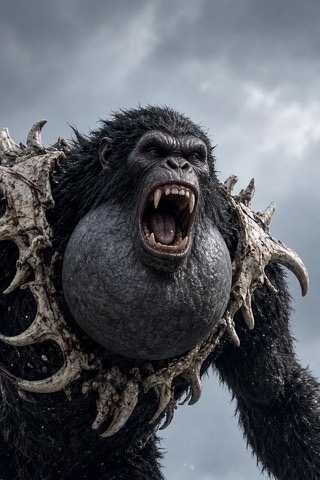
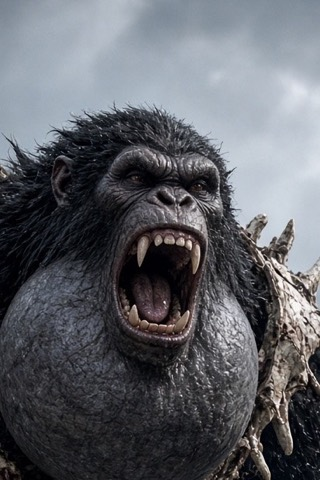
Ice Age thumbs re-framed on each face (Paul approved; sources and heroes untouched); tournament polish: compact layout for short/sideways screens, side-by-side celebration, 'waiting for friends', plurals; sw v66

diff --git a/web/index.html b/web/index.html
@@ -1184,7 +1184,7 @@
 .t-clock b{font:900 1.5rem/1 system-ui,sans-serif;color:#fff;font-variant-numeric:tabular-nums}.t-clock small{font:800 .58rem system-ui,sans-serif;letter-spacing:.14em;color:#ffcf3acc;margin-top:4px}
 .t-list{list-style:none;margin:6px 0 10px;padding:0;display:grid;gap:6px;text-align:left}
 .t-row{display:grid;grid-template-columns:30px 40px 1fr auto;align-items:center;gap:10px;padding:7px 10px;border-radius:12px;background:#ffffff0d;border:1px solid #ffffff14}
-.t-row.me{background:#ffcf3a1f;border-color:#ffcf3a77}.t-row .t-place{font:900 1rem system-ui,sans-serif;text-align:center;color:#fff}
+.t-row.me{background:#ffcf3a1f;border-color:#ffcf3a77}.t-row .t-place{font:900 1.3rem/1 system-ui,sans-serif;text-align:center;color:#fff}
 .t-row img{width:40px;height:60px;object-fit:cover;border-radius:7px;box-shadow:0 2px 6px #0008}.t-row .t-name{font:900 .86rem system-ui,sans-serif;color:#fff;overflow:hidden;text-overflow:ellipsis;white-space:nowrap}
 .t-row .t-name small{display:block;font:700 .62rem system-ui,sans-serif;color:#ffffff99;letter-spacing:.02em}.t-row .t-pts{font:900 1.05rem system-ui,sans-serif;color:#ffe08a;font-variant-numeric:tabular-nums}
 .t-rules{margin:8px 0 12px;color:#ffffffaa;font:700 .66rem/1.45 system-ui,sans-serif}.t-wait{margin:2px 0 8px;color:#ffffff99;font:700 .66rem system-ui,sans-serif}
@@ -1195,6 +1195,15 @@
 .t-win b{font:900 1.35rem system-ui,sans-serif;color:#ffe08a}.t-win small{color:#fff;font:800 .74rem system-ui,sans-serif}
 .t-podium{display:flex;align-items:flex-end;justify-content:center;gap:8px;margin:4px 0 10px}.t-podium div{display:grid;justify-items:center;gap:4px;font:900 .66rem system-ui,sans-serif;color:#fff}
 .t-podium img{width:52px;height:78px;object-fit:cover;border-radius:8px}.t-podium i{display:block;width:64px;border-radius:8px 8px 0 0;background:linear-gradient(#ffcf3a,#a9780f);color:#2b1a06;font:900 .9rem system-ui,sans-serif;font-style:normal;text-align:center;padding-top:4px}
+@media (max-height:520px){.tourney-dialog{padding:10px 14px 12px;max-height:calc(100dvh - 12px)}.tourney-dialog h2{font-size:1.05rem}.tourney-dialog .t-host{font-size:.62rem}
+  .t-clock{margin:4px auto 6px;padding:3px 12px}.t-clock b{font-size:1.05rem}.t-clock small{margin-top:2px}.t-list{gap:4px;margin:4px 0 6px}
+  .t-row{padding:3px 8px;grid-template-columns:26px 28px 1fr auto;gap:8px}.t-row img,.t-pick img{width:28px;height:42px}.t-row .t-place{font-size:1.05rem}
+  .t-rules{margin:4px 0 6px}.t-actions{gap:4px}.t-pick{gap:4px;max-height:calc(100dvh - 215px);min-height:60px}.t-pick label{padding:3px 10px}
+  .t-win{margin:2px 0 6px;gap:2px}.t-win .t-cup{font-size:2.3rem}.t-win b{font-size:1.1rem}.t-podium{margin:2px 0 6px}.t-podium img{width:34px;height:51px}.t-podium i{width:50px}
+  .t-cel{display:flex;align-items:center;justify-content:center;gap:18px}.t-cel .t-win{margin:0}}
+/* Very short sideways phones: the week row makes room for the tournament chip, so the name pill stays on screen. */
+@media (max-height:380px){body.phone-ls .home:has(.home-tourney:not([hidden])) .home-week{display:none}}
+@media (max-height:760px) and (orientation:portrait){.home:has(.home-tourney:not([hidden])) .home-week{display:none}}
 </style>
 </head>
 <body>
@@ -4252,6 +4261,7 @@ void main() {
       'NEW: FRIEND NEWS has its own switch in Settings, and tapping a message now opens the shared puzzle or friends list it’s about.',
       'NEW: Send a shared puzzle invite in a message, so friends who don’t check the game still get it.',
       'NEW: Six more puzzles to build, plus two snowy Christmas scenes from December 1.',
+      'Ice Age cards are re-framed so every monkey’s face is front and centre.',
       'A RATE MONKEY TRUBBLE button in Settings, for whenever you feel like it. The game will never ask.',
       'Fixed: a card could get stuck, drawn big over the board, after touching it with a second finger mid-drag or switching apps.',
       'Shared Puzzles: start a new one right after finishing, no restart needed, and shared pieces turn up more often.',
@@ -4997,6 +5007,7 @@ void main() {
       const me=t.standings.find(x=>x.me),left=Date.parse(t.ends_at)-tNow();
       if(t.my_status==='invited'){$('#homeTourneyText').textContent=loc('{0} invited you to a tournament!',t.host.name);$('#homeTourneySub').textContent=loc('TAP TO JOIN · {0} LEFT',fmtLeft(left))}
       else if(t.status==='finished'){$('#homeTourneyText').textContent=loc('Tournament over!');$('#homeTourneySub').textContent=loc('TAP TO SEE WHO WON')}
+      else if(t.standings.length<2){$('#homeTourneyText').textContent=loc('Troop Tournament · waiting for friends');$('#homeTourneySub').textContent=loc('{0} PTS · {1} LEFT',me?.points??0,fmtLeft(left))}
       else{$('#homeTourneyText').textContent=loc('Troop Tournament · {0} of {1}',ordinal(me?.place||1),t.standings.length);$('#homeTourneySub').textContent=loc('{0} PTS · {1} LEFT',me?.points??0,fmtLeft(left))}}
     // The countdown keeps moving on the home chip and the open sheet (once a minute; every second in the last minute would be overkill).
     setInterval(()=>{if(document.hidden||!tourneysOn())return;if(!$('#home').classList.contains('hidden'))renderTourneyChip();if($('#tourneySheet').classList.contains('show')&&!tr.celebrating)renderTourneyClock();
@@ -5018,7 +5029,7 @@ void main() {
       const title=tEl('h2',null,loc('{0}’s Troop Tournament',t.host.name));title.id='tourneyTitle';const host=tEl('div','t-host',loc('Hosted by {0}',t.host.name));
       const clock=tEl('div','t-clock');clock.append(tEl('b',null,fmtLeft(Date.parse(t.ends_at)-tNow())),tEl('small',null,t.status==='live'?loc('LEFT TO PLAY'):loc('FINAL STANDINGS')));
       const list=tEl('ol','t-list');for(const r of t.standings){const li=tEl('li','t-row'+(r.me?' me':''));const name=tEl('span','t-name',r.me?loc('{0} (you)',r.name):r.name);
-        name.append(tEl('small',null,loc('{0} levels · {1} pieces · {2} puzzles',r.levels,r.pieces,r.puzzles)));li.append(tEl('span','t-place',r.points>0||t.status==='finished'?(r.place===1?'🥇':r.place===2?'🥈':r.place===3?'🥉':ordinal(r.place)):'–'),tAvatar(r.avatar),name,tEl('span','t-pts',String(r.points)));list.append(li)}
+        name.append(tEl('small',null,[loc(r.levels===1?'1 level':'{0} levels',r.levels),loc(r.pieces===1?'1 piece':'{0} pieces',r.pieces),loc(r.puzzles===1?'1 puzzle':'{0} puzzles',r.puzzles)].join(' · ')));li.append(tEl('span','t-place',r.points>0||t.status==='finished'?(r.place===1?'🥇':r.place===2?'🥈':r.place===3?'🥉':ordinal(r.place)):'–'),tAvatar(r.avatar),name,tEl('span','t-pts',String(r.points)));list.append(li)}
       const parts=[title,host,clock,list],waiting=(t.invited||[]).filter(x=>x.id!==progress.player.id);if(waiting.length)parts.push(tEl('p','t-wait',loc('Waiting for: {0}',waiting.map(x=>x.name).join(', '))));
       parts.push(tEl('p','t-rules',loc('+10 each new level · +3 each puzzle piece placed · +25 each puzzle finished')));
       const act=tEl('div','t-actions');
@@ -5048,7 +5059,7 @@ void main() {
       const win=tEl('div','t-win');win.append(tEl('div','t-cup',r.winner?'🏆':'🎖'),tEl('b',null,r.winner?loc('YOU WON!'):loc('You finished {0}',ordinal(r.place||t.standings.length))),
         tEl('small',null,prize?loc('Reward: {0}',[...Object.entries(prize.bank).filter(([,n])=>n).map(([k,n])=>`${n} ${loc(BOOSTER_NAMES[k])}`),...prize.xp?[`${prize.xp} XP`]:[]].join(' · ')):loc('Score next time to earn a reward.')));
       const act=tEl('div','t-actions');act.append(tBtn(loc('COLLECT'),async()=>{tr.celebrating=false;tr.view=null;await refreshTourneys(true);renderTourney();renderHome()}));
-      const title=tEl('h2',null,loc('{0}’s Troop Tournament',t.host.name));title.id='tourneyTitle';box.replaceChildren(title,win,podium,act);
+      const title=tEl('h2',null,loc('{0}’s Troop Tournament',t.host.name));title.id='tourneyTitle';const cel=tEl('div','t-cel');cel.append(win,podium);box.replaceChildren(title,cel,act);
       const b=box.getBoundingClientRect();if(r.winner){playSound('praiseSting',{volume:.9});haptic('jokerSlam');streakSparks(b.left+b.width/2,b.top+b.height*.3,80);setTimeout(()=>fairyDust(b.left+b.width*.25,b.top+b.height*.3),250);setTimeout(()=>fairyDust(b.left+b.width*.75,b.top+b.height*.3),450)}
       else{playSound('comboSting',{volume:.6});haptic('pairCleared');fairyDust(b.left+b.width/2,b.top+b.height*.3)}}
     // Your own puzzle totals for tournament scoring (pieces placed, puzzles finished); the server keeps the highest it has seen.

diff --git a/web/i18n/es.js b/web/i18n/es.js
@@ -1143,6 +1143,14 @@ window.ES_TEXT={
   "PICK YOUR TROOP":"ELIGE TU TROPA",
   "INVITE MORE FRIENDS":"INVITA A MÁS AMIGOS",
   "Up to 7 friends. Each one gets an invite and joins only if they say yes.":"Hasta 7 amigos. Cada uno recibe una invitación y solo entra si dice que sí.",
+  "Ice Age cards are re-framed so every monkey’s face is front and centre.":"Las cartas de la Era de Hielo se reencuadraron para que la cara de cada mono quede al frente y al centro.",
+  "Troop Tournament · waiting for friends":"Torneo de la Tropa · esperando a tus amigos",
+  "1 level":"1 nivel",
+  "{0} levels":"{0} niveles",
+  "1 piece":"1 pieza",
+  "{0} pieces":"{0} piezas",
+  "1 puzzle":"1 puzzle",
+  "{0} puzzles":"{0} puzzles",
   // 2026-11-26 fixes
   "Fixed: a card could get stuck, drawn big over the board, after touching it with a second finger mid-drag or switching apps.":"Arreglado: una carta podía quedarse atascada, en grande sobre el tablero, al tocarla con un segundo dedo mientras la arrastrabas o al cambiar de app.",
   "Shared Puzzles: start a new one right after finishing, no restart needed, and shared pieces turn up more often.":"Puzzles compartidos: empieza uno nuevo nada más terminar, sin reiniciar la app, y las piezas compartidas aparecen más a menudo.",

diff --git a/web/sw.js b/web/sw.js
@@ -1,7 +1,7 @@
 // Offline cache for the installed web app. Pages load network-first so updates show up on the next visit. Images and audio are
 // served from the cache when there (stale-while-revalidate: a fresh copy is fetched in the background for next time), so a card
 // flip never waits on the network; desktop Safari showed blank faces for seconds while each image re-checked the server.
-const CACHE = 'monkeytrubble-v65';
+const CACHE = 'monkeytrubble-v66';
 const MEDIA = /\.(?:jpe?g|png|webp|gif|svg|mp3|wav|m4a|woff2?)$/i;
 self.addEventListener('install', () => self.skipWaiting());
 self.addEventListener('activate', e => e.waitUntil(
